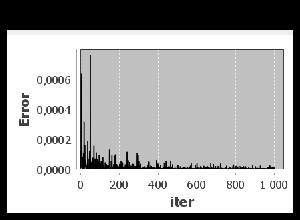
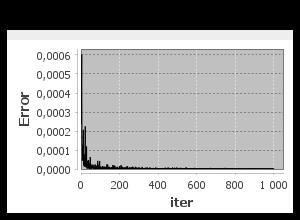
TestNormalizer

diff --git a/src/test/java/multi_step_td/charge/TestAgentNeuralChargeMockedData.java b/src/test/java/multi_step_td/charge/TestAgentNeuralChargeMockedData.java
@@ -2,6 +2,7 @@ package multi_step_td.charge;
 
 import common.MultiplePanelsPlotter;
 import common.RandUtils;
+import lombok.SneakyThrows;
 import multi_step_temp_diff.domain.agent_abstract.AgentAbstract;
 import multi_step_temp_diff.domain.agent_abstract.AgentNeuralInterface;
 import multi_step_temp_diff.domain.agent_parts.NstepExperience;
@@ -31,13 +32,16 @@ import java.util.function.Predicate;
 
 public class TestAgentNeuralChargeMockedData {
 
-    private static final int BUFFER_SIZE = 1000, NOF_ITERATIONS = 1000;
-    private static final int BATCH_LENGTH = 10;
+    private static final int BUFFER_SIZE = 10_000, NOF_ITERATIONS = 1000;
+    private static final int BATCH_LENGTH = 50;
     public static final double DELTA = 2;
+    public static final String PICS_FOLDER = "pics/";
 
     AgentNeuralInterface<ChargeVariables> agent;
     AgentChargeNeural agentCasted;
     EnvironmentInterface<ChargeVariables> environment;
+    ChargeEnvironmentLambdas lambdas;
+
     ChargeEnvironment environmentCasted;
     ChargeEnvironmentSettings settings;
     int nofSiteNodes;
@@ -47,6 +51,7 @@ public class TestAgentNeuralChargeMockedData {
         settings = ChargeEnvironmentSettings.newDefault();
         environment = new ChargeEnvironment(settings);
         environmentCasted = (ChargeEnvironment) environment;
+        lambdas=new ChargeEnvironmentLambdas(settings);
         nofSiteNodes = environmentCasted.getSettings().siteNodes().size();
         ChargeState initState = new ChargeState(ChargeVariables.builder().build());
         AgentChargeNeuralSettings agentSettings = AgentChargeNeuralSettings.newDefault();
@@ -76,7 +81,7 @@ public class TestAgentNeuralChargeMockedData {
         plotAndSaveErrorHistory("fixed");
 
         for (int i = 0; i < 10; i++) {
-            ChargeState state = stateRandomPosAndSoC(nofSiteNodes);
+            ChargeState state = stateRandomPosAndSoC();
             double valueLearned = agent.readValue(state);
             System.out.println("valueLearned = " + valueLearned);
             Assertions.assertEquals(stateToValueFunction.apply(state),valueLearned, DELTA);
@@ -84,20 +89,12 @@ public class TestAgentNeuralChargeMockedData {
 
     }
 
-    private void plotAndSaveErrorHistory(String fileName) {
-        ValueTracker errorTracker=agentCasted.getErrorHistory();
-        MultiplePanelsPlotter plotter=new MultiplePanelsPlotter(List.of("Error"),"iter");
-        plotter.plot(List.of(errorTracker.getValueHistoryAbsoluteValues()));
-        plotter.saveImage("pics/"+fileName);
-    }
-
     @Test
     @Tag("nettrain")
     public void givenRuleBasedValue_whenTrain_thenCorrect() {
 
-        ChargeEnvironmentLambdas lambdas=new ChargeEnvironmentLambdas(settings);
         Function<ChargeState, Double> stateToValueFunction=(s) -> {
-            double socLimit = 0.4;
+            double socLimit = 0.34;
             ChargeVariables vars = s.getVariables();
             BiPredicate<Double,Integer> isBelowSocLimitAndNotChargePos=(soc, pos) ->
                     soc<socLimit && !lambdas.isChargePos.test(pos);
@@ -122,7 +119,7 @@ public class TestAgentNeuralChargeMockedData {
 
         Map<Integer, Pair<Double,Double>> valueMap=new HashMap<>();
         for (int i = 0; i < 10; i++) {
-            ChargeState state = stateRandomPosAndSoC(nofSiteNodes);
+            ChargeState state = stateRandomPosAndSoC();
             double valueLearned = agent.readValue(state);
             valueMap.put(i, new Pair<>(stateToValueFunction.apply(state),valueLearned));
         }
@@ -140,7 +137,7 @@ public class TestAgentNeuralChargeMockedData {
     private List<NstepExperience<ChargeVariables>> createBuffer(Function<ChargeState, Double> stateFunction) {
         List<NstepExperience<ChargeVariables>> batch = new ArrayList<>();
         for (int i = 0; i < BUFFER_SIZE; i++) {
-            ChargeState state = stateRandomPosAndSoC(nofSiteNodes);
+            ChargeState state = stateRandomPosAndSoC();
             NstepExperience<ChargeVariables> exp = NstepExperience.<ChargeVariables>builder()
                     .stateToUpdate(state)
                     .value(stateFunction.apply(state))
@@ -150,20 +147,32 @@ public class TestAgentNeuralChargeMockedData {
         return batch;
     }
 
+
+    @SneakyThrows
+    private void plotAndSaveErrorHistory(String fileName) {
+        ValueTracker errorTracker=agentCasted.getErrorHistory();
+        MultiplePanelsPlotter plotter=new MultiplePanelsPlotter(List.of("Error"),"iter");
+        plotter.plot(List.of(errorTracker.getValueHistoryAbsoluteValues()));
+        Thread.sleep(100);
+        plotter.saveImage(PICS_FOLDER +fileName);
+    }
+
     @NotNull
-    private static ChargeState stateRandomPosAndSoC(int nofSiteNodes) {
+    private ChargeState stateRandomPosAndSoC() {
         return new ChargeState(ChargeVariables.builder()
-                .posA(randomPos(nofSiteNodes)).posB(randomPos(nofSiteNodes))
+                .posA(randomPos()).posB(randomPos())
                 .socA(randomSoC()).socB(randomSoC())
                 .build());
     }
 
-    private static double randomSoC() {
+    private double randomSoC() {
         return RandUtils.getRandomDouble(0, 1);
     }
 
-    private static int randomPos(int nofSiteNodes) {
-        return RandUtils.getRandomIntNumber(0, nofSiteNodes);
+    private int randomPos() {
+       RandUtils<Integer> randUtils=new RandUtils<>();
+        List<Integer> es = new ArrayList<>(settings.siteNodes());
+        return randUtils.getRandomItemFromList(es);
     }
 
 

diff --git a/src/test/java/multi_step_td/common/TestNormalizer.java b/src/test/java/multi_step_td/common/TestNormalizer.java
@@ -1,0 +1,59 @@
+package multi_step_td.common;
+
+import multi_step_temp_diff.domain.normalizer.NormalizeMinMax;
+import multi_step_temp_diff.domain.normalizer.NormalizerInterface;
+import multi_step_temp_diff.domain.normalizer.NormalizerMeanStd;
+import org.junit.jupiter.params.ParameterizedTest;
+import org.junit.jupiter.params.aggregator.ArgumentsAccessor;
+import org.junit.jupiter.params.provider.CsvSource;
+
+import java.util.Arrays;
+import java.util.List;
+
+import static org.junit.jupiter.api.Assertions.assertEquals;
+import static org.junit.jupiter.api.Assertions.assertTrue;
+
+public class TestNormalizer {
+
+
+    @ParameterizedTest
+    @CsvSource({"1, 0.01","11,0.11","77,0.77"})
+    void whenMinMax_thenCorrect(ArgumentsAccessor arguments) {
+        NormalizerInterface normalizer=new NormalizeMinMax(0,100);
+        double value=arguments.getDouble(0);
+        double valueNormalizedExpected=arguments.getDouble(1);
+        assertEquals(valueNormalizedExpected,normalizer.normalize(value));
+    }
+
+    /**
+     * To perform z-normalization (also known as standardization), you need to calculate the z-score for each value.
+     * The z-score measures how many standard deviations a data point is away from the mean.
+     * The formula to calculate the z-score is:
+     * z = (x - mean) / standard deviation
+     * Where:
+     * x = the data point
+     * mean = the mean of the data set
+     * standard deviation = the standard deviation of the data set
+     * Since we don't have the complete data set, we cannot calculate the exact mean and standard deviation.
+     * However, assuming you have the entire data set, let's say the mean (μ) is 0.6 and the standard deviation (σ)
+     * is 0.2, then you can calculate the z-scores for each value:
+     * z(0.3) = (0.3 - 0.6) / 0.2582 = -1.1619
+     * z(0.5) = (0.5 - 0.6) / 0.2582 = -0.3873
+     * z(0.7) = (0.7 - 0.6) / 0.2582 = 0.3873
+     * z(0.9) = (0.9 - 0.6) / 0.2582 = 1.1619
+     */
+
+    @ParameterizedTest
+    @CsvSource({"0.3, -1.1619","0.5,-0.3873","0.7,0.3873","0.9,1.1619"})
+    void whenMeanStd_thenCorrect(ArgumentsAccessor arguments) {
+        NormalizerInterface normalizer=new NormalizerMeanStd(List.of(0.3,0.5,0.7,0.9));
+
+        System.out.println("normalizer = " + normalizer);
+
+        double value=arguments.getDouble(0);
+        double valueNormalizedExpected=arguments.getDouble(1);
+        assertEquals(valueNormalizedExpected,normalizer.normalize(value),0.01);
+    }
+
+
+}

diff --git a/src/main/java/multi_step_temp_diff/domain/normalizer/NormalizerMeanStd.java b/src/main/java/multi_step_temp_diff/domain/normalizer/NormalizerMeanStd.java
@@ -1,0 +1,49 @@
+package multi_step_temp_diff.domain.normalizer;
+
+import common.MathUtils;
+import lombok.ToString;
+import org.apache.commons.math3.stat.descriptive.SummaryStatistics;
+
+import java.util.DoubleSummaryStatistics;
+import java.util.List;
+import java.util.stream.Collectors;
+import java.util.stream.DoubleStream;
+
+/***
+ * https://www.codecademy.com/article/normalization
+ */
+
+@ToString
+public class NormalizerMeanStd implements NormalizerInterface {
+
+    double mean, std;
+
+    public NormalizerMeanStd(List<Double> valueList) {
+
+        if (valueList.isEmpty() || valueList.size()==1) {
+            throw new IllegalArgumentException("Empty or single element value list");
+        }
+
+        DoubleSummaryStatistics sumStats=valueList.stream().mapToDouble(v -> v).summaryStatistics();
+        mean=sumStats.getAverage();
+        List<Double> sumSqr=valueList.stream().map(v -> Math.pow(v-mean,2)).toList();
+        System.out.println("sumSqr = " + sumSqr);
+        std=Math.sqrt(sumSqr.stream().mapToDouble(Double::doubleValue).sum()/(valueList.size()-1));
+
+        if (MathUtils.isZero(std)) {
+            throw new IllegalArgumentException("Value list gives zero standard deviation");
+
+        }
+
+    }
+
+    @Override
+    public double normalize(double out) {
+        return (out-mean)/std;
+    }
+
+    @Override
+    public double normalizeInverted(double in) {
+        return in*std+mean;
+    }
+}

diff --git a/src/main/java/multi_step_temp_diff/domain/normalizer/NormalizeMinMax.java b/src/main/java/multi_step_temp_diff/domain/normalizer/NormalizeMinMax.java
@@ -1,0 +1,21 @@
+package multi_step_temp_diff.domain.normalizer;
+
+public class NormalizeMinMax implements NormalizerInterface {
+
+    double min, max;
+
+    public NormalizeMinMax(double min, double max) {
+        this.min = min;
+        this.max = max;
+    }
+
+    @Override
+    public double normalize(double out) {
+        return (out-min)/(max-min);
+    }
+
+    @Override
+    public double normalizeInverted(double in) {
+        return min+in*(max-min);
+    }
+}

diff --git a/src/main/java/multi_step_temp_diff/domain/normalizer/NormalizerInterface.java b/src/main/java/multi_step_temp_diff/domain/normalizer/NormalizerInterface.java
@@ -1,0 +1,6 @@
+package multi_step_temp_diff.domain.normalizer;
+
+public interface NormalizerInterface {
+    double normalize(double out);
+    double normalizeInverted(double in);
+}
